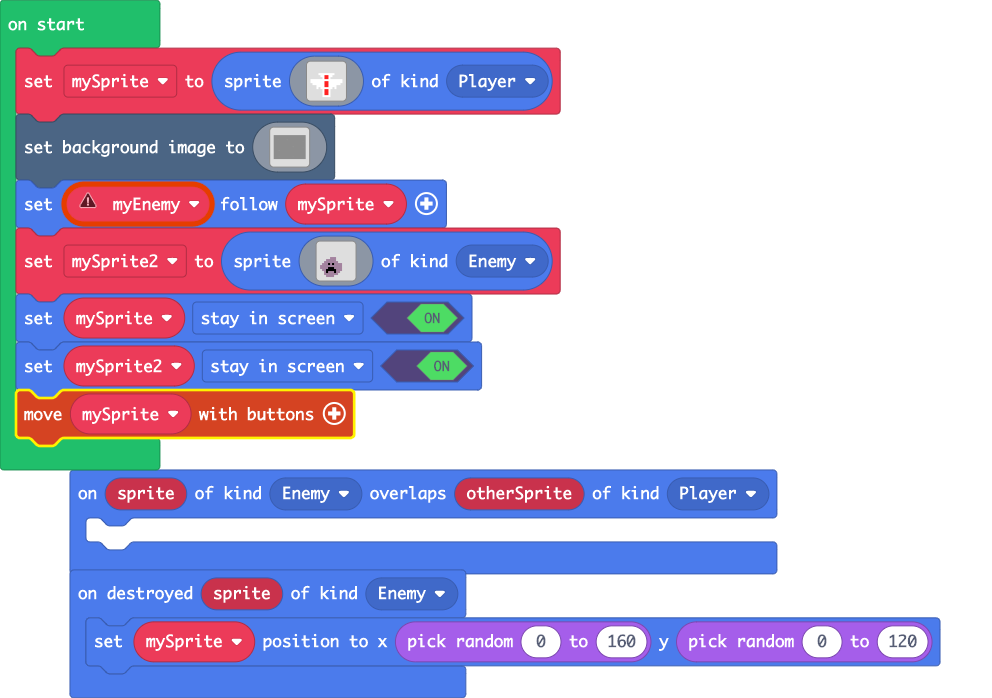
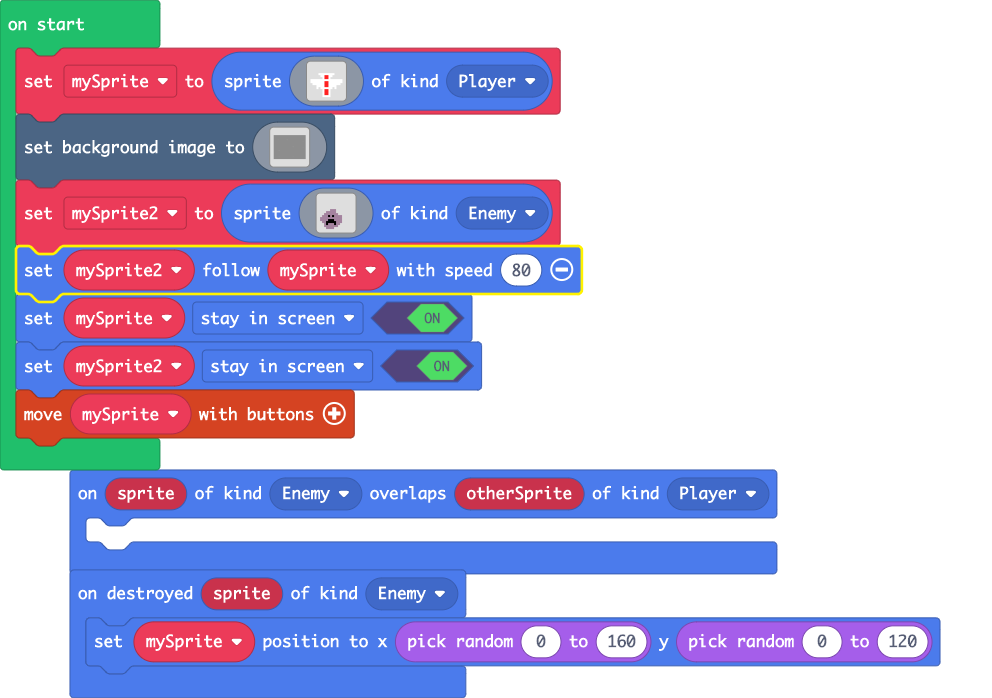
Update main.blocks, main.ts

diff --git a/main.ts b/main.ts
@@ -4,7 +4,6 @@ sprites.onOverlap(SpriteKind.Enemy, SpriteKind.Player, function (sprite, otherSp
 sprites.onDestroyed(SpriteKind.Enemy, function (sprite) {
     mySprite.setPosition(randint(0, 160), randint(0, 120))
 })
-let myEnemy: Sprite = null
 let mySprite: Sprite = null
 mySprite = sprites.create(img`
     . . . . . . . . . . . . . . . . 
@@ -146,7 +145,6 @@ scene.setBackgroundImage(img`
     ffffffffffffffffffffffffffffffffffffffffffffffffffffffffffffffffffffffffffffffffffffffffffffffffffffffffffffffffffffffffffffffffffffffffffffffffffffffffffffffff
     ffffffffffffffffffffffffffffffffffffffffffffffffffffffffffffffffffffffffffffffffffffffffffffffffffffffffffffffffffffffffffffffffffffffffffffffffffffffffffffffff
     `)
-myEnemy.follow(mySprite)
 let mySprite2 = sprites.create(img`
     . . . . . . . . . . . . . . . . 
     . . . . . . . . . . . . . . . . 
@@ -165,6 +163,7 @@ let mySprite2 = sprites.create(img`
     . . b b b b b b b . . . . . . . 
     . . . b b b b . . . . . . . . . 
     `, SpriteKind.Enemy)
+mySprite2.follow(mySprite, 80)
 mySprite.setFlag(SpriteFlag.StayInScreen, true)
 mySprite2.setFlag(SpriteFlag.StayInScreen, true)
 controller.moveSprite(mySprite)
